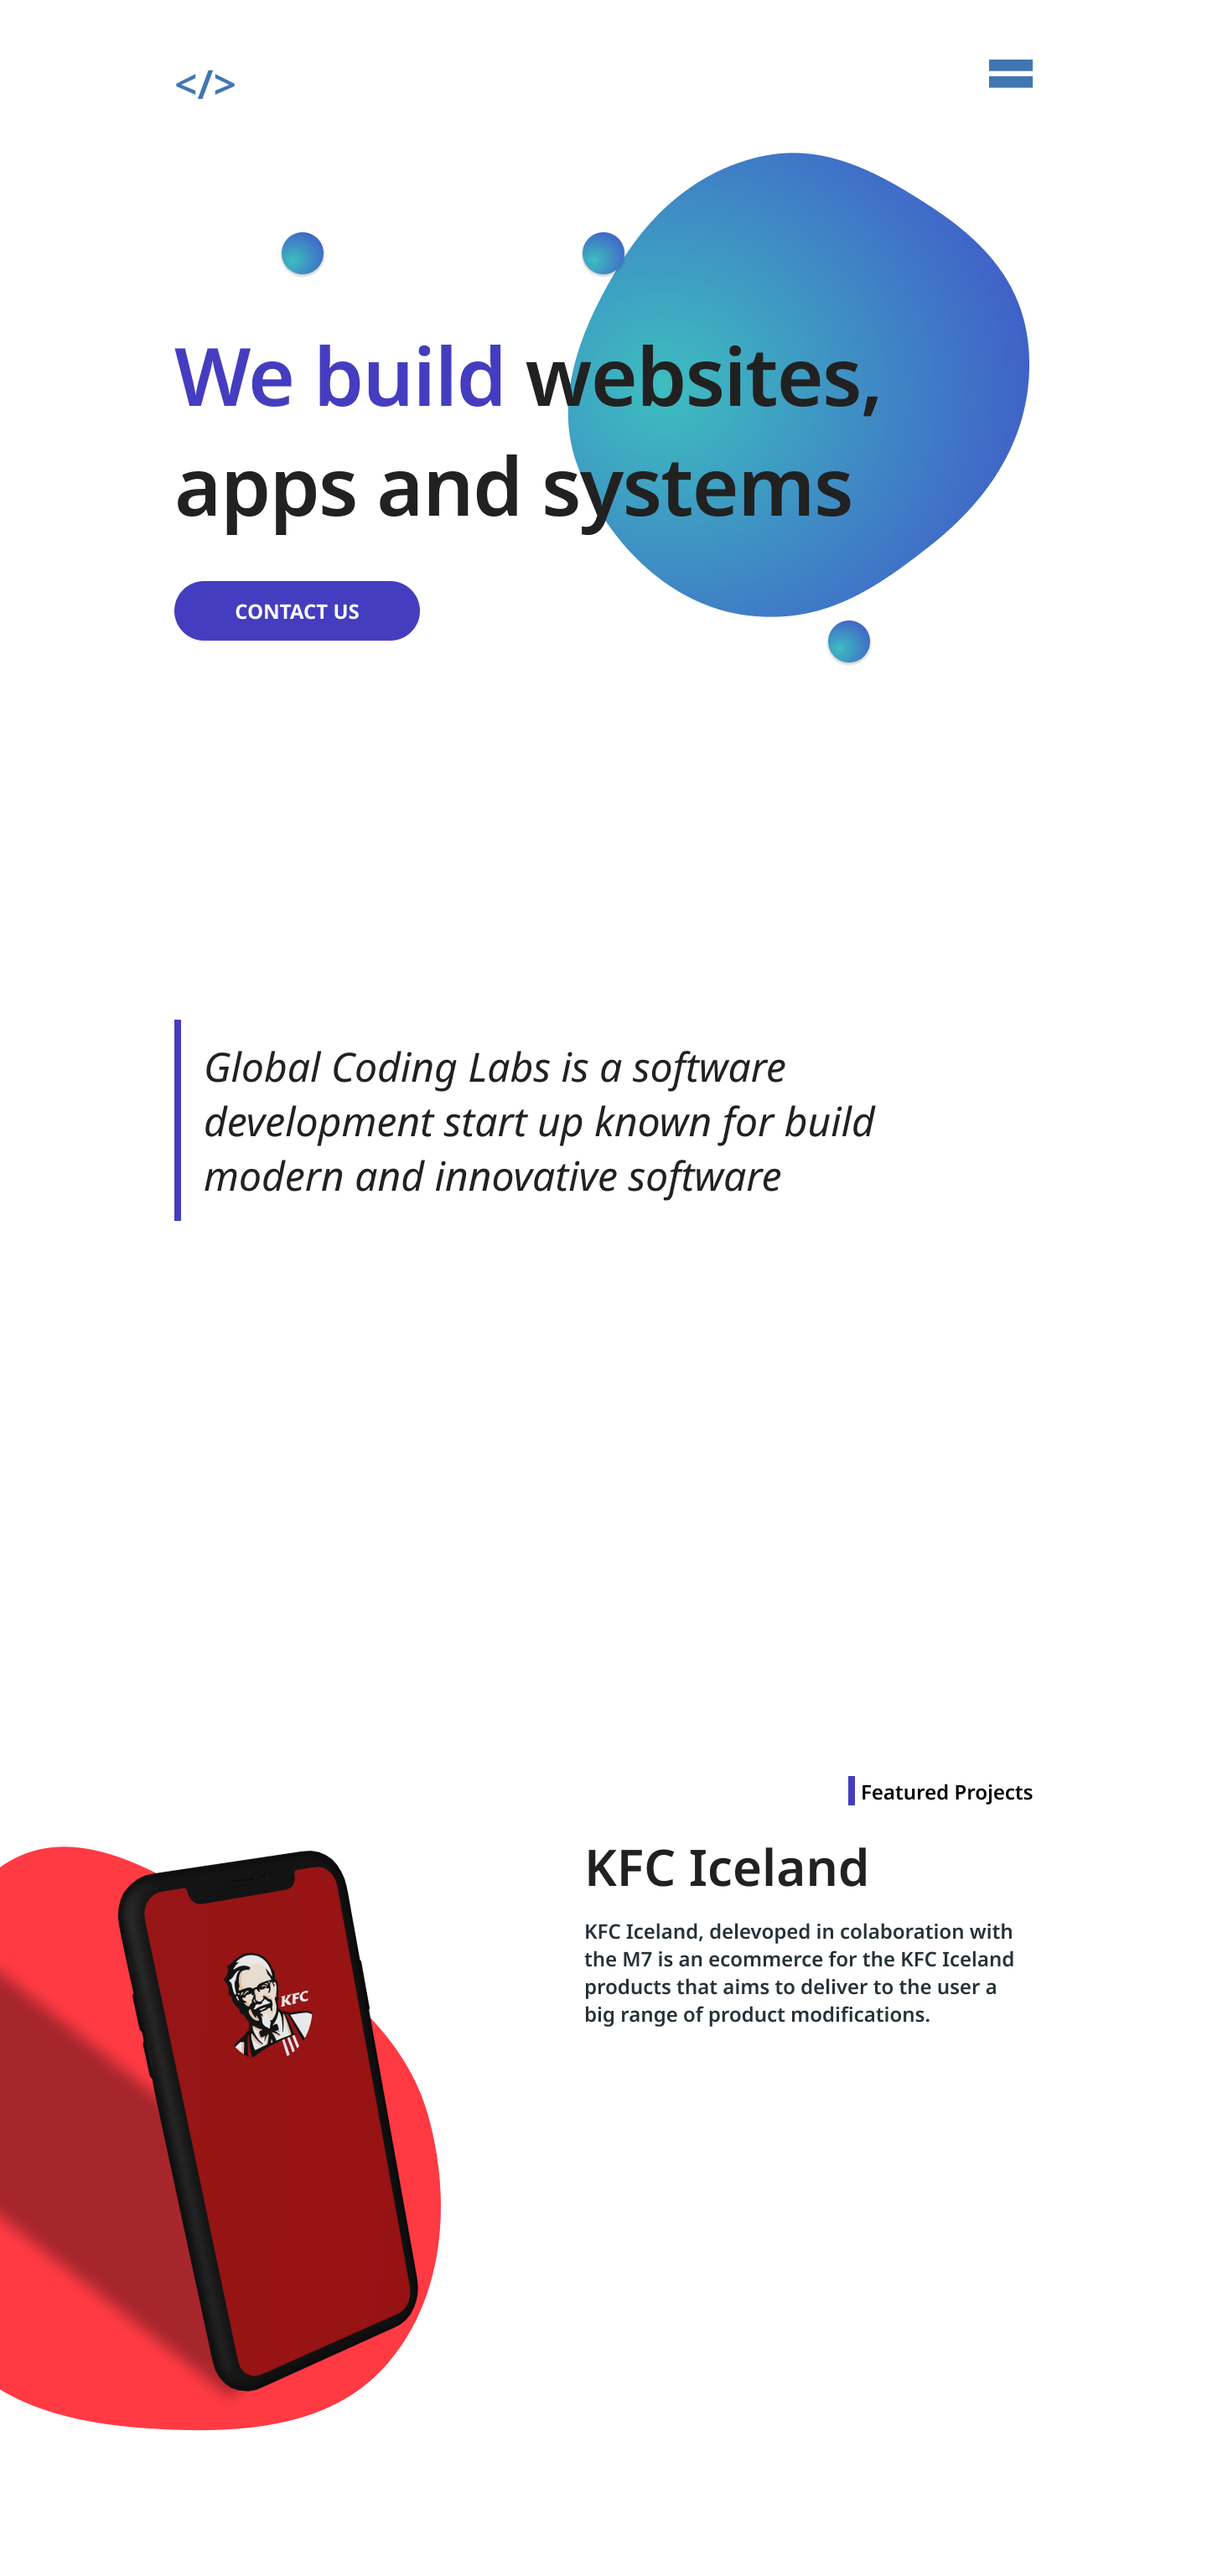
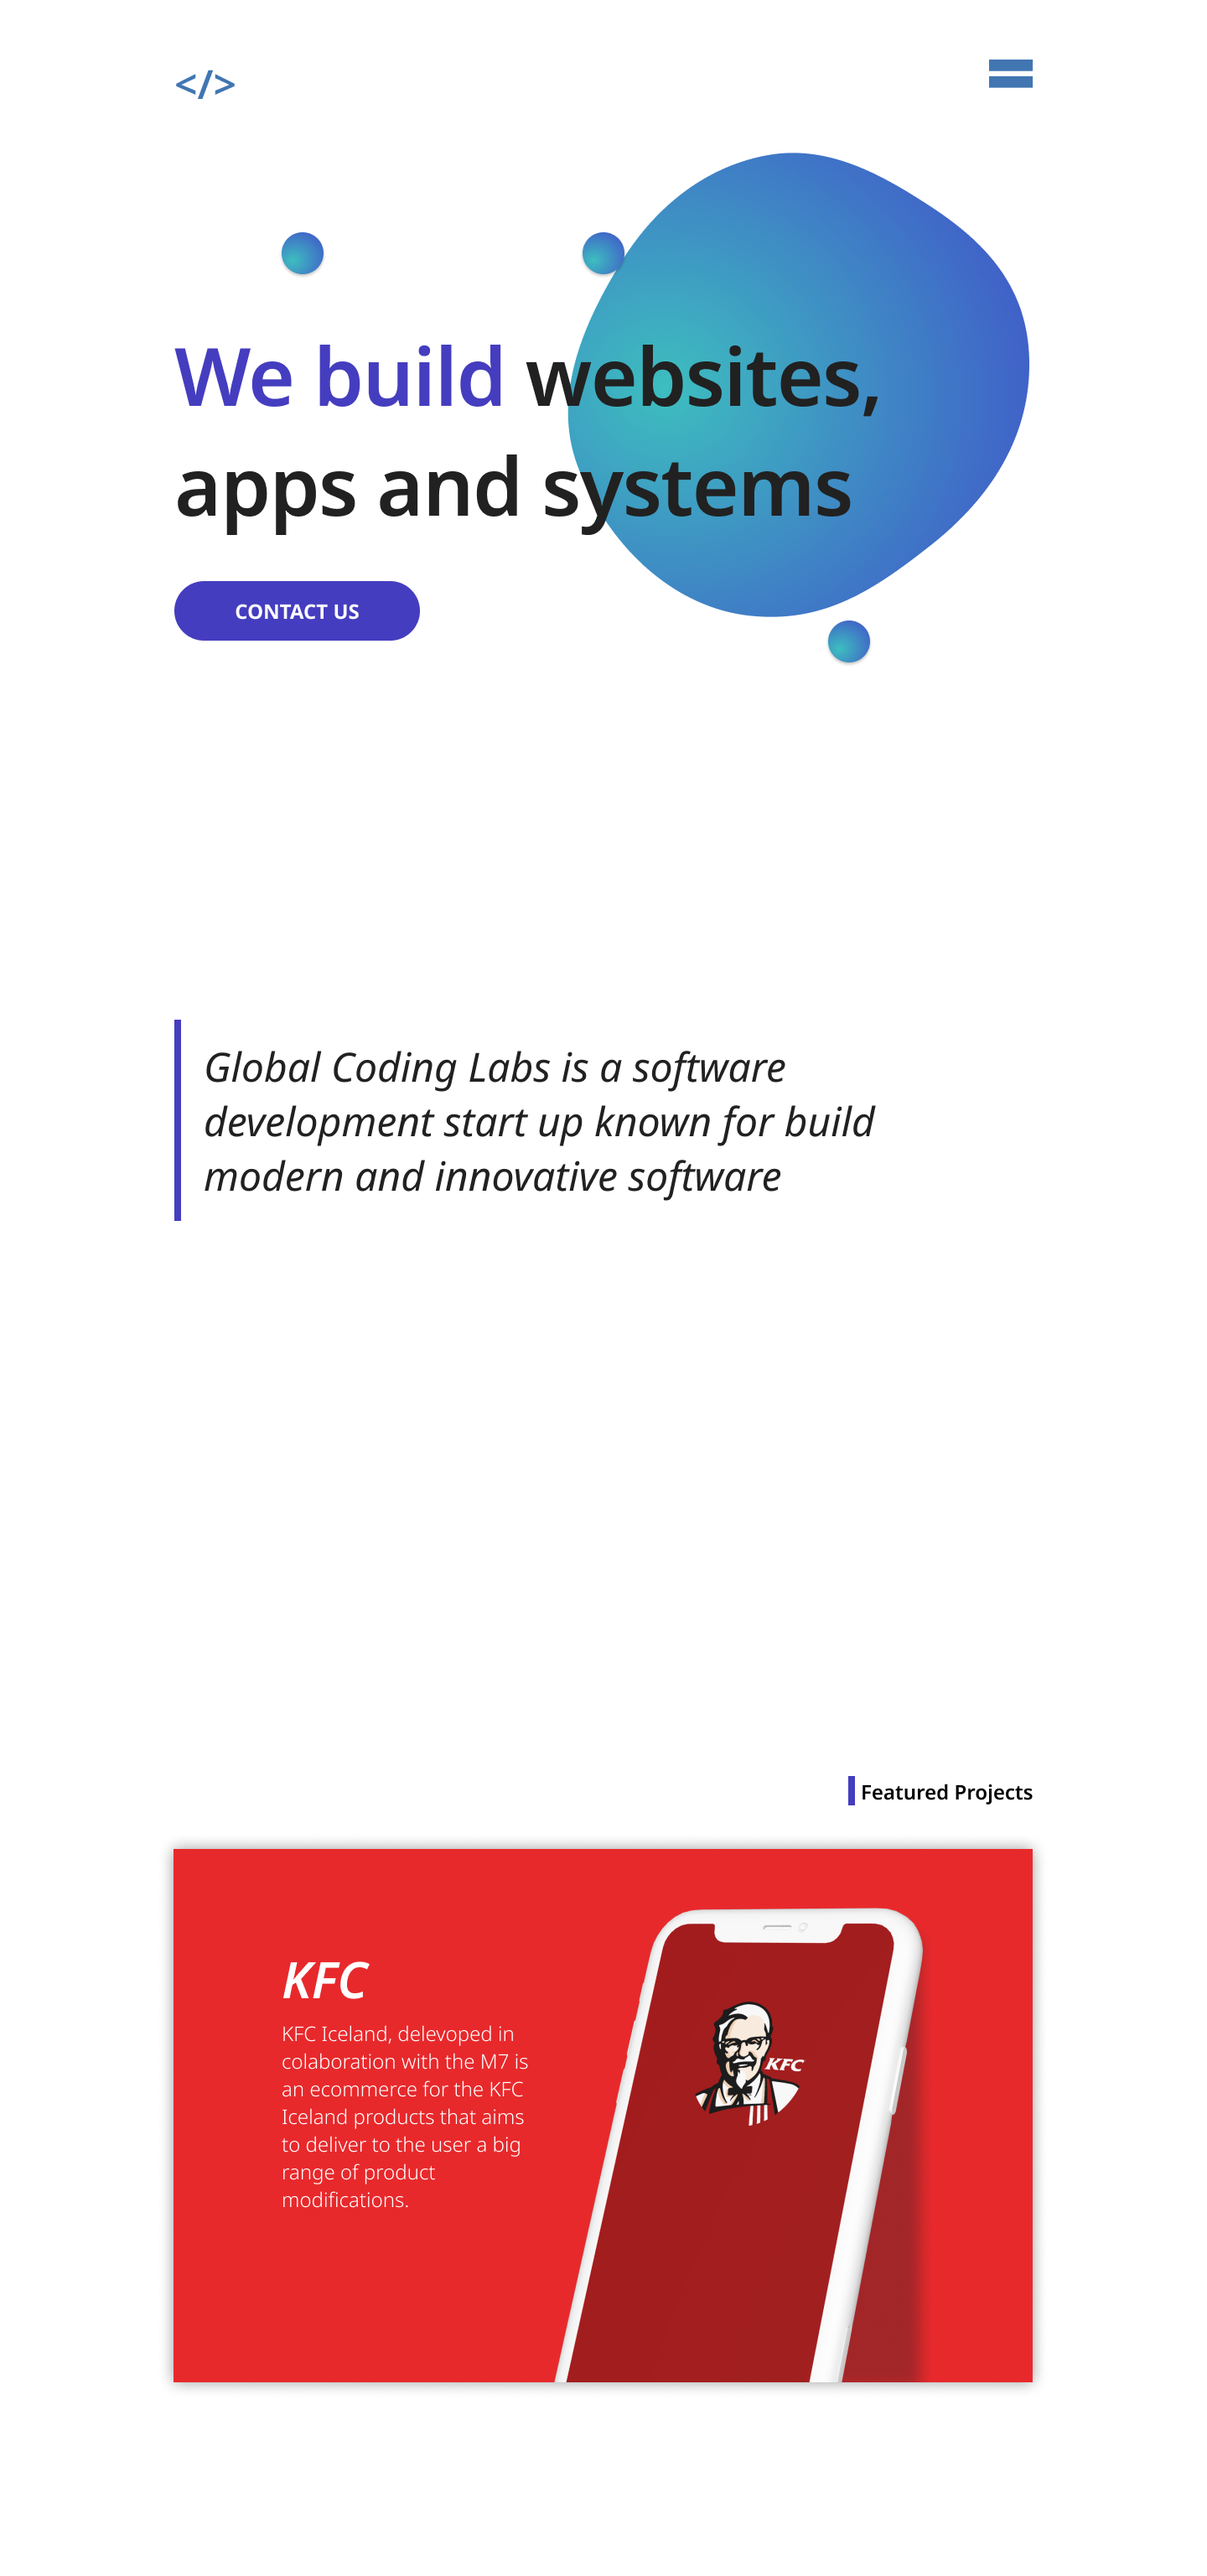
refactor: update readme design

Changed region(s): [[0.0, 0.7188, 0.875, 0.9688]]

diff --git a/sections/FeaturedProjects/index.tsx b/sections/FeaturedProjects/index.tsx
@@ -38,7 +38,7 @@ export default function FeaturedProjects() {
               2- Put the KFC project informations
           */}
 
-          <ProjectContent>
+          {/* <ProjectContent>
             <ContentContainer>
               <Headline2>KFC Iceland</Headline2>
 
@@ -48,7 +48,7 @@ export default function FeaturedProjects() {
                 the user a big range of product modifications.
               </Headline5>
             </ContentContainer>
-          </ProjectContent>
+          </ProjectContent> */}
 
           <ImagesContainer>
             <MorthBackground>
@@ -134,11 +134,12 @@ const ImagesContainer = styled.div`
   align-items: center;
   display: flex;
   justify-content: center;
-  margin-top: -1em;
+  margin-top: 1em;
 `;
 
 const ImageContainer = styled.div`
-  margin-top: -4em;
+  margin-top: -1em;
+  margin-left: -5em;
 
   @media (max-width: 780px) {
     margin-top: 0;
@@ -150,15 +151,15 @@ const ContentContainer = styled.div`
 `;
 
 const MorthBackground = styled.div`
-  width: 40vw;
-  height: 60vw;
+  width: 50vw;
+  height: 50vw;
   background-color: #ff3a43;
-  border-radius: 50%;
-  margin-left: -8em;
+  border-radius: 10%;
+  /* margin-left: -8em; */
   display: block;
   box-shadow: 0px 0px 20px rgba(0, 0, 0, 0.35);
   max-height: 500px;
-
+  
   @media (max-width: 780px) {
     display: flex;
     margin-left: 0;
